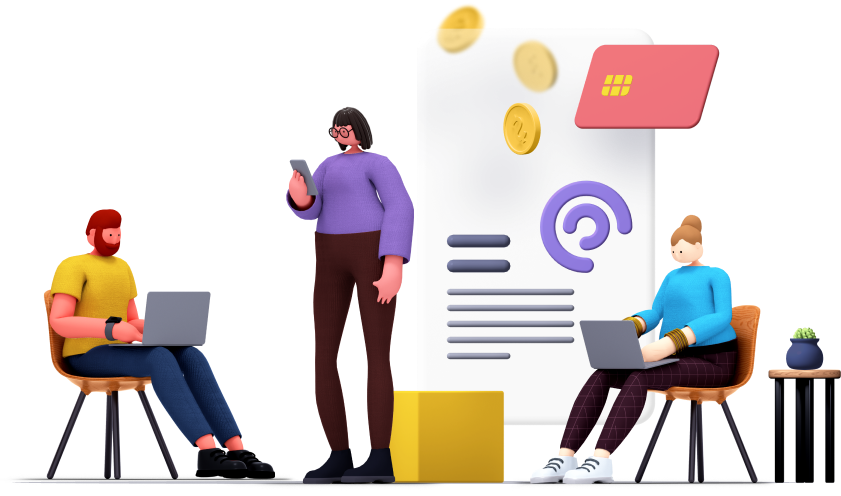
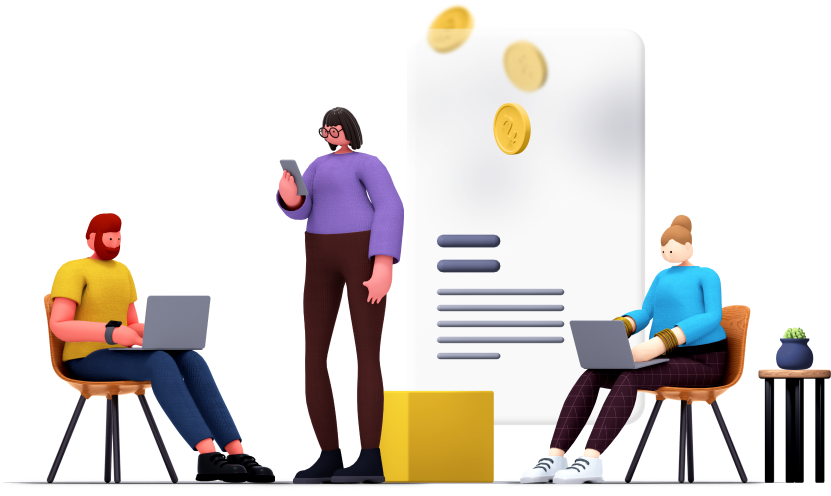
Additional animations, hero content and save time sections

diff --git a/components/templates/SaveTime.tsx b/components/templates/SaveTime.tsx
@@ -1,6 +1,6 @@
 /* eslint-disable @next/next/no-img-element */
 import styled from "styled-components";
-import { Text, Button } from "../atoms"
+import { Text, Button, MsgOne, MsgTwo, SaveCircle } from "../atoms"
 import { useEffect } from "react"
 import { useInView } from "react-intersection-observer"
 import { motion, useAnimation } from "framer-motion"
@@ -14,7 +14,23 @@ padding: 90px 5%;
 background: ${props => props.theme.white};  
 `
 
+const Circle = styled.div`
+  width: 102px;
+  height: 102px;
+  position: absolute;
+  bottom: 10px;
+  left: 17%;
+  z-index: 5;
+
+  @media only screen and (max-width: 700px) {
+    left: 5%;
+    width: 50px;
+    height: 50px;
+  }
+`
+
 const Wrapper = styled.div`
+  position: relative;
   max-width: 1500px;
   margin: 0 auto;
   width: 100%;
@@ -39,6 +55,8 @@ const Content = styled.div`
 `
 
 const Img = styled.div`
+  position: relative;
+  z-index: 10;
   width: 40%;
 
   @media only screen and (max-width: 700px) {
@@ -71,7 +89,10 @@ const SaveTime = () => {
         </Content>
         <Img ref={ref} as={motion.div} animate={controls} variants={variants} initial="hidden">
           <img src="/images/home-img-2.png" alt="" />
+          <MsgOne />
+          <MsgTwo />
         </Img>
+        <SaveCircle />
       </Wrapper>
     </Container>
   )

diff --git a/components/atoms/SaveCircle.tsx b/components/atoms/SaveCircle.tsx
@@ -1,0 +1,44 @@
+/* eslint-disable @next/next/no-img-element */
+import styled from "styled-components"
+import { useEffect } from "react"
+import { useInView } from "react-intersection-observer"
+import { motion, useAnimation } from "framer-motion"
+
+const Circle = styled.div`
+width: 82px;
+height: 82px;
+position: absolute;
+bottom: 25px;
+right: 14%;
+z-index: 2;
+
+@media only screen and (max-width: 700px) {
+  bottom: 69%;
+  width: 50px;
+  height: 50px;
+}
+`
+
+const SaveCircle = () => {
+  const controls = useAnimation()
+  const [ref, inView] = useInView()
+
+  const sphereVariants = {
+    visible: { x: 0, transition: { duration: 5 } },
+    hidden: { x: '20vw' }
+  }
+
+  useEffect(() => {
+    if (inView) {
+      controls.start("visible");
+    }
+  }, [controls, inView]);
+
+  return (
+    <Circle ref={ref} as={motion.div} animate={controls} variants={sphereVariants} initial="hidden">
+      <img src="/images/savetime-sphere.png" alt="" />
+    </Circle>
+  )
+}
+
+export default SaveCircle

diff --git a/components/atoms/AtmCard.tsx b/components/atoms/AtmCard.tsx
@@ -1,0 +1,40 @@
+/* eslint-disable @next/next/no-img-element */
+import styled from "styled-components"
+import { useEffect } from "react"
+import { useInView } from "react-intersection-observer"
+import { motion, useAnimation } from "framer-motion"
+
+const Atm = styled.div`
+width: 145.01px;
+height: 84.58px;
+position: absolute;
+right: 15%;
+top: 10%;
+
+@media only screen and (max-width: 700px) {
+ width: 80px;
+ height: 40px;
+}
+`
+
+const AtmCard = () => {
+  const controls = useAnimation()
+  const [ref, inView] = useInView()
+
+  const variants = {
+    visible: { rotate: 0, opacity: 1, transition: { duration: 1, delay: 8 } },
+    hidden: { rotate: -90, opacity: 0 }
+  }
+
+  useEffect(() => {
+    if (inView) {
+      controls.start("visible");
+    }
+  }, [controls, inView]);
+
+  return <Atm ref={ref} as={motion.div} animate={controls} variants={variants} initial="hidden">
+    <img src="/images/credit-card.png" alt="" />
+  </Atm>
+}
+
+export default AtmCard

diff --git a/components/atoms/Coil.tsx b/components/atoms/Coil.tsx
@@ -1,0 +1,40 @@
+/* eslint-disable @next/next/no-img-element */
+import styled from "styled-components"
+import { useEffect } from "react"
+import { useInView } from "react-intersection-observer"
+import { motion, useAnimation } from "framer-motion"
+
+const CoilO = styled.div`
+width: 93px;
+height: 93px;
+position: absolute;
+right: 25%;
+top: 35%;
+
+@media only screen and (max-width: 700px) {
+ width: 35px;
+ height: 35px;
+}
+`
+
+const Coil = () => {
+  const controls = useAnimation()
+  const [ref, inView] = useInView()
+
+  const variants = {
+    visible: { rotate: 0, transition: { duration: 2, delay: 8 } },
+    hidden: { rotate: -180 }
+  }
+
+  useEffect(() => {
+    if (inView) {
+      controls.start("visible");
+    }
+  }, [controls, inView]);
+
+  return <CoilO ref={ref} as={motion.div} animate={controls} variants={variants} initial="hidden">
+    <img src="/images/coil.png" alt="" />
+  </CoilO>
+}
+
+export default Coil

diff --git a/components/atoms/MsgTwo.tsx b/components/atoms/MsgTwo.tsx
@@ -1,0 +1,38 @@
+/* eslint-disable @next/next/no-img-element */
+import styled from "styled-components"
+import { useEffect } from "react"
+import { useInView } from "react-intersection-observer"
+import { motion, useAnimation } from "framer-motion"
+
+const Msg = styled.div`
+width: 124px;
+position: absolute;
+right: 38%;
+top: 15%;
+
+@media only screen and (max-width: 700px) {
+ width: 70px;
+}
+`
+
+const MsgTwo = () => {
+  const controls = useAnimation()
+  const [ref, inView] = useInView()
+
+  const variants = {
+    visible: { scale: 1, transition: { duration: 1, delay: 1.5 } },
+    hidden: { scale: 0 }
+  }
+
+  useEffect(() => {
+    if (inView) {
+      controls.start("visible");
+    }
+  }, [controls, inView]);
+
+  return <Msg ref={ref} as={motion.div} animate={controls} variants={variants} initial="hidden">
+    <img src="/images/home-img-2-msg-2.png" alt="" />
+  </Msg>
+}
+
+export default MsgTwo

diff --git a/components/atoms/MsgOne.tsx b/components/atoms/MsgOne.tsx
@@ -1,0 +1,38 @@
+/* eslint-disable @next/next/no-img-element */
+import styled from "styled-components"
+import { useEffect } from "react"
+import { useInView } from "react-intersection-observer"
+import { motion, useAnimation } from "framer-motion"
+
+const Msg = styled.div`
+width: 124px;
+position: absolute;
+right: 43%;
+top: -2%;
+
+@media only screen and (max-width: 700px) {
+ width: 70px;
+}
+`
+
+const MsgOne = () => {
+  const controls = useAnimation()
+  const [ref, inView] = useInView()
+
+  const variants = {
+    visible: { scale: 1, transition: { duration: 1, delay: 1 } },
+    hidden: { scale: 0 }
+  }
+
+  useEffect(() => {
+    if (inView) {
+      controls.start("visible");
+    }
+  }, [controls, inView]);
+
+  return <Msg ref={ref} as={motion.div} animate={controls} variants={variants} initial="hidden">
+    <img src="/images/home-img-2-msg-1.png" alt="" />
+  </Msg>
+}
+
+export default MsgOne

diff --git a/components/organisms/HeroContent.tsx b/components/organisms/HeroContent.tsx
@@ -4,7 +4,7 @@ import { useInView } from "react-intersection-observer"
 import Link from "next/link"
 import { motion, useAnimation } from "framer-motion"
 import styled from "styled-components"
-import { Text } from "../atoms"
+import { Text, Coil, AtmCard } from "../atoms"
 import Button from "../atoms/Button"
 
 const Wrapper = styled.div`
@@ -38,6 +38,7 @@ const Wrapper = styled.div`
 `
 
 const ContentImg = styled.div`
+  position: relative;
   max-width: 800px;
   width: 100%;
   z-index: 10;
@@ -116,6 +117,8 @@ const HeroContent = () => {
       </Link>
       <ContentImg>
         <img src="/images/home-img-1.png" alt="" />
+        <Coil />
+        <AtmCard />
       </ContentImg>
       <Circle ref={ref} as={motion.div} animate={controls} variants={sphereVariants} initial="hidden">
         <img src="/images/sphere.png" alt="" />

diff --git a/components/atoms/index.ts b/components/atoms/index.ts
@@ -7,6 +7,11 @@ export { default as AltButton } from "./AltButton"
 export { default as Button } from "./Button"
 export { default as SearchBar } from "./SearchBar"
 export { default as Circle } from "./Circle"
+export { default as Coil } from "./Coil"
+export { default as AtmCard } from "./AtmCard"
+export { default as MsgOne } from "./MsgOne"
+export { default as MsgTwo } from "./MsgTwo"
+export { default as SaveCircle } from "./SaveCircle"
 
 
 export { default as CurveSvg } from "./icons/curve-svg"

diff --git a/components/molecules/Card.tsx b/components/molecules/Card.tsx
@@ -41,7 +41,7 @@ const Card = ({ icon, title, text, index }: Props) => {
   const [ref, inView] = useInView()
 
   const variants = {
-    visible: { scale: 1, transition: { duration: 1, delay: index } },
+    visible: { scale: 1, transition: { duration: 1, delay: index === 0 ? index : index / 2 } },
     hidden: { scale: 0 }
   }
 
